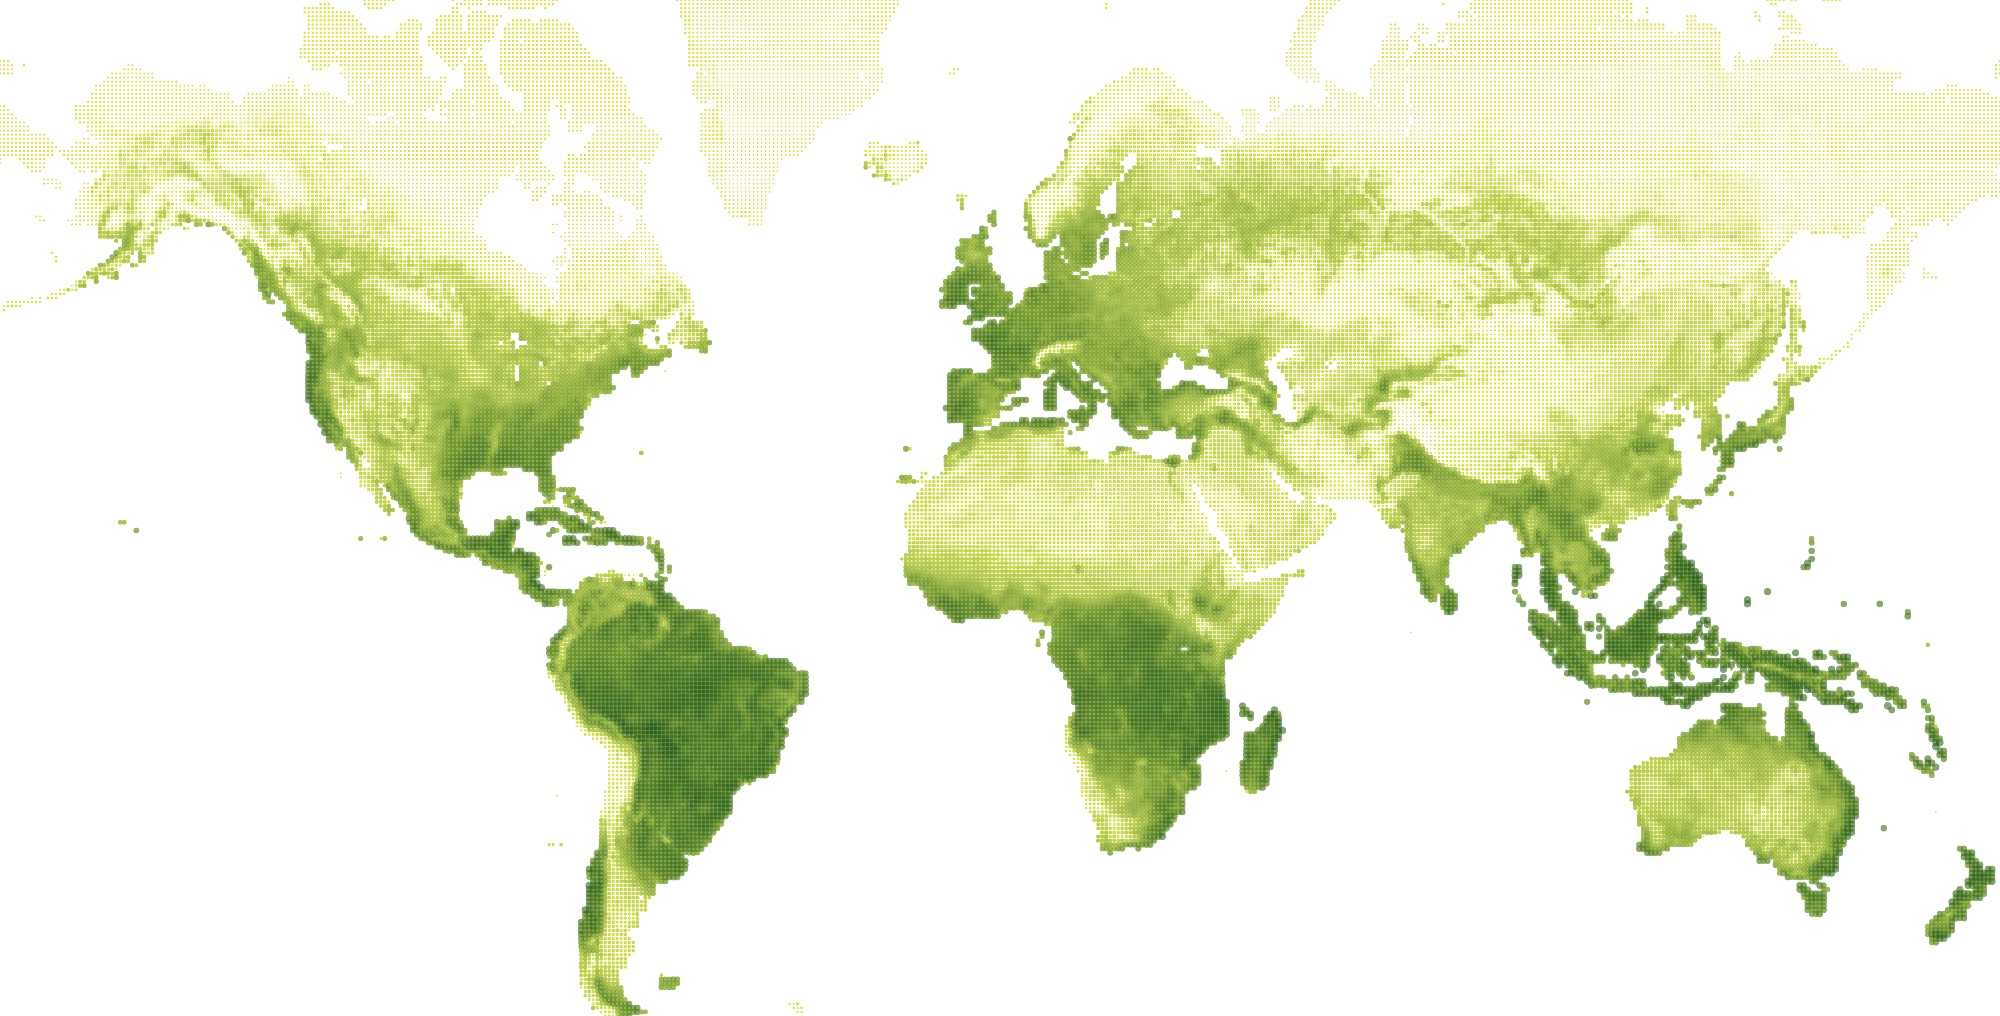
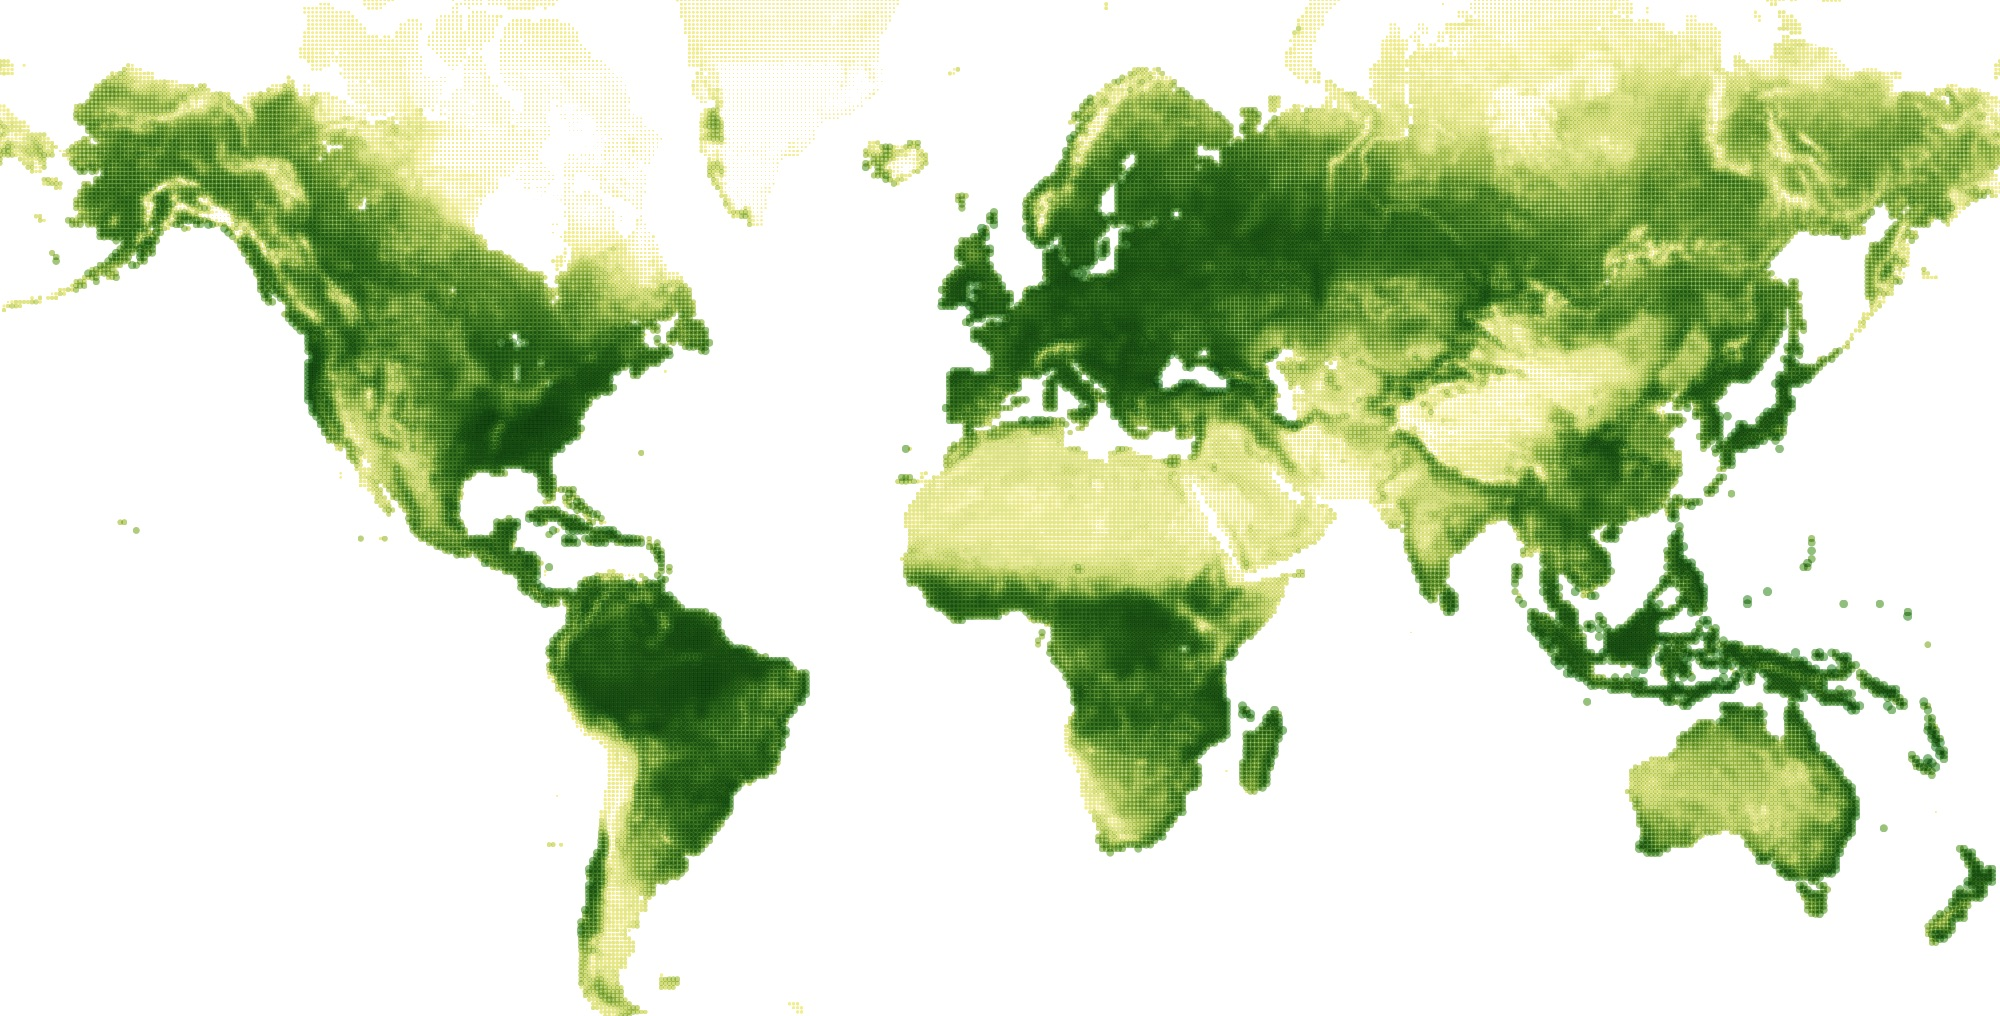
Added real multiply version

diff --git a/april/code/nadieh/regl/js/main.js b/april/code/nadieh/regl/js/main.js
@@ -43,9 +43,13 @@ function createReglMap() {
 	var regl = createREGL({
 		extensions: ['OES_standard_derivatives'],
 		canvas: canvas,
-		//alpha: false,
-		antialias: true
+		attributes: {
+			alpha: false,
+			depth: false,
+			antialias: true
+		}
 	});
+	regl.clear({color: [1, 1, 1, 1]});
 
 	///////////////////////////////////////////////////////////////////////////
 	///////////////////////// Create global variables /////////////////////////
@@ -137,7 +141,7 @@ function createReglMap() {
 
 	var radiusScale = d3.scaleSqrt()
 		.domain([minL, maxL])
-		.range([0, 4])
+		.range([0, 5])
 		.clamp(true);
 
 	var opacityScale = d3.scaleLinear()
@@ -146,8 +150,8 @@ function createReglMap() {
 
 	var greenColor = d3.scaleLinear()
 		.domain([-0.08, 0.1, maxL])
-		.range(["#FFBE1F", "#d9e537", "#054501"])
-		//.range(["#FAECAB", "#f2ec82", "#0c750c"]) //colors in case I get multiply working
+		//.range(["#FFBE1F", "#d9e537", "#054501"]) //old colors when multiply wasn't working
+		.range(["#FAECAB", "#f2ec82", "#0c750c"])
 		.clamp(true);
 
 	//Wrap d3 color scales so they produce vec3s with values 0-1
@@ -227,9 +231,10 @@ function createReglMap() {
 						//Anti-aliasing-factor
 						float aaf = fwidth(point_dist)/2.0;
 						//if(point_dist + aaf > 1.0) discard; //strangley this doesn't work as inteded at all
-						float alpha = (1.0 - smoothstep(1.0 - aaf, 1.0 + aaf, point_dist));
+						float alpha = fopacity*(1.0 - smoothstep(1.0 - aaf, 1.0 + aaf, point_dist));
 					#else
 						if(point_dist > 1.0) discard;
+						float alpha = fopacity;
 					#endif
 
 					//From:https://gist.github.com/rflow/39692bd181fb1eb0b077a4caf886b077
@@ -244,8 +249,14 @@ function createReglMap() {
 					//The most basic way to get a (pixelated) circle
 					//if (point_dist > 1.0) discard;
 					
-					gl_FragColor = vec4(alpha*fcolor, alpha*fopacity);// - correct for no multiply but with pre-opacity multiplication (& the //2 func below)
+					//gl_FragColor = vec4(alpha*fcolor, alpha*fopacity);// - correct for no multiply but with pre-opacity multiplication (& the //2 func below)
 					//gl_FragColor = vec4(fcolor, alpha*fopacity); // correct for nu multiply and without pre-opacity multiplication (& the //1 func below)
+
+					// I could not have figured the below part out without the help of Ricky Reusser!!
+					// premultiplying the alpha like this means we can use *just* the multiplicative
+					// part of the blending function (src * dst). But alpha = 0 corresponds to
+					// multiplying by one, so we have to do this little 'one minus' trick:
+					gl_FragColor = vec4(1.0 - alpha * (1.0 - fcolor), 1);
 
 				}//void main
 			`,
@@ -254,8 +265,9 @@ function createReglMap() {
 
 			blend: {
 				enable: true,
+				func: { srcRGB: 'dst color', dstRGB: 0, srcAlpha: 1, dstAlpha: 1 },
 				//func: { srcRGB: 'src alpha', dstRGB: 'one minus src alpha', srcAlpha: 1, dstAlpha: 'one minus src alpha' }, //1
-				func: {src: 1, dst: 'one minus src alpha'}, //2
+				//func: {src: 1, dst: 'one minus src alpha'}, //2
 				//func: {src: 'one minus dst alpha', dst: 'src color'}, //never got this working correctly with opacities, but it does look like a multiply blend
 				//func: {src: 'dst color', dst: 'one minus src alpha'}, //seems to work for Pixi, but I just get a white screen...
 				equation: { rgb: 'add', alpha: 'add' },
@@ -309,9 +321,9 @@ function createReglMap() {
 			d.opacity = opacityScale(d.layer);
 			d.color = greenColorRGB(d.layer);
 			//Premultiply the colors by the alpha
-			d.color[0] = d.color[0] * d.opacity;
-			d.color[1] = d.color[1] * d.opacity;
-			d.color[2] = d.color[2] * d.opacity;
+			// d.color[0] = d.color[0] * d.opacity;
+			// d.color[1] = d.color[1] * d.opacity;
+			// d.color[2] = d.color[2] * d.opacity;
 			d.size = radiusScale(d.layer); 
 		});
 
@@ -333,6 +345,7 @@ function createReglMap() {
 		d3.select("#week").text("Week " + (startMap+1) + ", " + months[startMap] + ", 2016");
 
 		//Draw the current map
+		regl.clear({color: [1, 1, 1, 1]});
 		drawMap({ 
 			currColor: currMap.colors,
 			nextColor: currMap.colors,
@@ -373,7 +386,7 @@ function createReglMap() {
 		///////////////////////////////////////////////////////////////////////////
 
 		//Render loop
-		const fps = 5;
+		const fps = 10;
 		const tweenTime = 3;
 		const tweenFrames = fps * tweenTime;
 
@@ -392,7 +405,7 @@ function createReglMap() {
 			//Sve in variable, so we can cancel and restart
 			ticker = regl.frame(function({ tick }) {
 				regl.clear({
-					color: [0, 0, 0, 0],
+					color: [1, 1, 1, 1],
 					depth: 1
 				})
 
@@ -456,9 +469,9 @@ function createReglMap() {
 					d.opacity = opacityScale(d.layer);
 					d.color = greenColorRGB(d.layer);
 					//Premultiply the colors by the alpha
-					d.color[0] = d.color[0] * d.opacity;
-					d.color[1] = d.color[1] * d.opacity;
-					d.color[2] = d.color[2] * d.opacity;
+					// d.color[0] = d.color[0] * d.opacity;
+					// d.color[1] = d.color[1] * d.opacity;
+					// d.color[2] = d.color[2] * d.opacity;
 					d.size = radiusScale(d.layer); 
 				});
 				//Now create a new array that shuffles the data a bit

diff --git a/april/index.html b/april/index.html
@@ -159,6 +159,9 @@
 
                 <p>At some point the creator of regl, <a href="https://twitter.com/MikolaLysenko" target="_new">Mikola Lysenko</a>, even started helping me, which was awesome, but we didn't manage to replicate the results that canvas & Pixi were showing 😖 - Eventually I had spend enough time experimenting with the blending. I therefore decided to leave it without any blending. The Pixi version was therefore going to be my "main" project site. However, since I had the regl version animating perfectly fine I decided to clean up the page; better color palette, adding titles and such, and link to it from the eventual main page. That way people can compare the different tool-based versions 🙂</p>
                 <a class="fancybox" href="code/nadieh/img/regl_final_result.png"> <img src="code/nadieh/img/regl_final_result.jpg" class="img-responsive img-month" alt="Final result with regl"></a>
+
+                <p>May 20th UPDATE | Apparently Ricky Reusser hadn't given up the "multiply" fight yet, and about a week after I published "A Breathing Earth" he tweeted <a href="http://codepen.io/rsreusser/pen/YVRXzy?editors=0010" target="_new">a regl demo</a> that had both multiply and opacity working (below is what I turned the demo into so I could compare it to, say, Illustrator). How amazing is that! So now I can say that all 3 versions are exactly the same ^_^ and regl is definitely the fastest. I even had to "slow" it down a bit otherwise it would just whoosh through a year in no time.</p>
+                <a class="fancybox" href="code/nadieh/img/regl_multiply_and_opacity.png"> <img src="code/nadieh/img/regl_multiply_and_opacity.png" class="img-responsive img-month" alt="Adjusted version of Ricky Reussers example that shows that multiply is working"></a>
     
                 <p>I had learned many things while going through all the wonderful examples people had send me. I therefore returned to the canvas version to see if I could make it faster. After a bit of messing around, I managed to get it to switch between maps every second, but that is still too slow for a smooth animation (nonetheless, I also cleaned up the canvas version and added it to the main page for comparison).</p>
 
@@ -169,7 +172,7 @@
 
                 <p>Having chosen the regl library to work with WebGL I decided not to go into ThreeJS as well. It was just too much to handle in one week, so many new programming libraries, hehe. Nonetheless, I still want to share these 3 examples that show the concept of changing circles that I received through Twitter: <a href="https://bl.ocks.org/robinhouston/4b736b08f369a94c419098a72e11c47b" target="_new">a block with 50.000 circles animated with WebGL</a> custom made by <a href="https://twitter.com/robinhouston" target="_new">Robin Houston</a> and two codepens with 50.000 animated circles, one using <a href="http://codepen.io/mattdesl/pen/YVENeL" target="_new">circle "pentagons" in ThreeJS</a> and another version using <a href="http://codepen.io/mattdesl/pen/LyOxqd" target="_new">DataTextures in ThreeJS</a> both custom made by <a href="https://twitter.com/mattdesl" target="_new">Matt DesLauriers</a>.</p>
 
-                <p>This was a <i>very</i> technical "month" for me. Sure, the visual in itself isn't so <i>out of the box</i> as the typical month, it's been done before in different ways, but as I often tell others, you can't expect to create wonderful, crazy new things when you're just starting out with a tool. Instead, I haven't learned so many new (coding) languages/libraries within a week, since, well, maybe ever. And I couldn't have done it without the help of a lot of people. I would specifically like to thank Robert Monfera, Alastair Dant, Matt DesLauriers, Peter Beshai, Mikola Lysenko, Ricky Reusser, Yannick Assogba, Robin Houston, Amelia Bellamy-Royds, Jan Willem Tulp, Mike Brondbjerg, Paul Murray, and Mathieu Henri who have all helped me in different areas of either Pixi, regl, ThreeJS and more. I don't think I would've been able to get my map(s) working without the ideas and examples they shared. THANK YOU!</p>
+                <p>This was a <i>very</i> technical "month" for me. Sure, the visual in itself isn't so <i>out of the box</i> as the typical month, it's been done before in different ways, but as I often tell others, you can't expect to create wonderful, crazy new things when you're just starting out with a tool. Instead, I haven't learned so many new (coding) languages/libraries within a week, since, well, maybe ever. And I couldn't have done it without the help of a lot of people. I would specifically like to thank Robert Monfera, Alastair Dant, Ricky Reusser, Matt DesLauriers, Peter Beshai, Mikola Lysenko, Yannick Assogba, Robin Houston, Amelia Bellamy-Royds, Jan Willem Tulp, Mike Brondbjerg, Paul Murray, and Mathieu Henri who have all helped me in different areas of either Pixi, regl, ThreeJS and more. I don't think I would've been able to get my map(s) working without the ideas and examples they shared. THANK YOU!</p>
 
             </div>
           </div>
